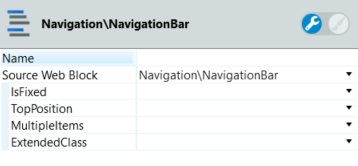
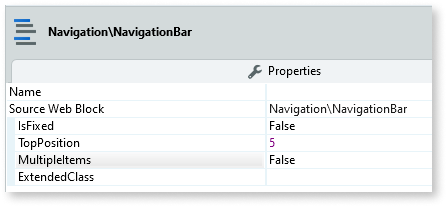
Updated: Tabs (Mob), Navigation Bar (Web), GAllery (Mob) and Master Detail (Mob) Patterns

diff --git a/src/develop/ui/patterns/web/navigation/navigationbar.md b/src/develop/ui/patterns/web/navigation/navigationbar.md
@@ -7,7 +7,7 @@ summary:
 
 You can use the Navigation Bar UI Pattern to organize the content and enable quick navigation through an application with vertically stacked links. These stacked links can be displayed with different hierarchy levels. 
 
-You user this pattern when the end user needs to navigate through an application's main sections while maintaining the ability to browse to another subsection quickly. 
+You use this pattern when the user needs to navigate through an application's main sections while maintaining the ability to browse to another subsection quickly. 
 
 ![](images/navigationbar-image-7.png)
 
@@ -19,17 +19,17 @@ You user this pattern when the end user needs to navigate through an application
 
       ![](images/navigationbar-image-6.png)
 
-1. From the Toolbox, drag the Navigation Bar widget onto your application's screen. 
+1. From the Toolbox, drag the Navigation Bar widget into the Main Content area of your application's screen.
 
-    ![](images/navigationbar-image-1.png?width=500)
+      ![](images/navigationbar-image-1.png)
 
-1. Drag the required number of Navigation Bar Item blocks into the Content placeholder.
+    By default, the Navigation Bar widget contains a Navigation Bar Item and a Navigation Bar SubItem widgets. You can add or delete as many of these widgets as required.
 
-1. Drag the required number of Navigation Bar Sub Item blocks into the Navigation Bar Item Content placeholder.
+1. Add the required content to the Navigation Bar Item and Navigation Bar SubItem placeholders. In this example we add some text by typing directly into each of the placeholders.
 
-    ![](images/navigationbar-image-2.png)
+    ![](images/navigationbar-image-8.png)
 
-1. On the **Properties** tab, set the required values.
+1. On the **Properties** tab, you can customize the Navigation Bar's look and feel by setting any of the optional properties.
 
     ![](images/navigationbar-image-3.png)
 
@@ -39,31 +39,28 @@ After following these steps and publishing the module, you can test the pattern 
 
 #### Navigation Bar
 
-| **Property** |  **Description** |  **Usage** | 
-|---|---|---|
-| IsFixed (Boolean): Optional |  If set to True, the navigation bar will allways be in the same position on the screen. If set to False, it scrolls with the page content. |  
-| TopPosition (Integer): Optional  |  Set the top position when the navigation bar is fixed. (Insert a number - the pixels unit is automatically added.) |  
-| MultipleItems (Boolean): Optional |  Allows multiple Navigation Bar Items to be opened having an accordian effect. | 
-| ExtendedClass (Text): Optional |  Add custom style classes to the block. | T|
+| **Property** |  **Description** |  
+|---|---|
+| IsFixed (Boolean): Optional |  If set to True, the navigation bar will always be in the same position on the screen. This is the defult value. If set to False, it scrolls with the page content. |  
+| TopPosition (Integer): Optional  |  Set the top position when the navigation bar is fixed. <p>Examples<ul><li>_Blank_ - This is the default.</li><li>_50_ - </li></ul></p>|  
+| MultipleItems (Boolean): Optional | If set to True, multiple Navigation Bar Items can be opened at the same time.This is the default value. If set to False, only one Navigation Bar Item can be opened at a time. | 
+| ExtendedClass (Text): Optional | Add custom style classes to the Navigation Bar UI Pattern. You define your [custom style classes](../../../../../develop/ui/look-feel/css.md) in your application using CSS. <p>Examples <ul><li>_Blank_ - No custom styles are added (default value)</li><li>_''myclass''_ - adds the myclass style to the Navigation Bar UI styles being applied.<li>_''myclass1'' ''myclass2''_ - adds the _myclass1_ and _myclass2_ styles to the Navigation Bar UI styles being applied.</li></ul></p> | 
 
 #### Navigation Bar Item
 
-| **Property** |  **Description** |  **Usage** | 
-|---|---|---|
-| IsActive  |  Set IsActive to true, to define as the selected element. |  Boolean | False | False |
-| IsOpen  |  If true, when rendering the NavigationBarItem is open. |  Boolean | False | False |
-| ExtendedClass  |  Add custom style classes to this Block. | Text | False | none |
+| **Property** |  **Description** | 
+|---|---|
+| IsActive (Boolean): Optional | If set to True, when the page is rendered, the Item is selected. If set to False, the Item is not selected. This is the default value. | 
+| IsOpen (Boolean): Optional  |  If set to True, when the page is rendered, the Navigation Bar Item is open. If set to False, the Navigation Bar Item is not open. This is the default.| 
+| ExtendedClass (Text): Optional | Add custom style classes to the Navigation Bar Item UI Pattern. You define your [custom style classes](../../../../../develop/ui/look-feel/css.md) in your application using CSS. <p>Examples <ul><li>_Blank_ - No custom styles are added (default value)</li><li>_''myclass''_ - adds the myclass style to the Navigation Bar Item UI styles being applied.<li>_''myclass1'' ''myclass2''_ - adds the _myclass1_ and _myclass2_ styles to the Navigation Bar Item UI styles being applied.</li></ul></p> | 
 
 #### Navigation Bar Sub Item
-| **Property** |  **Description** |  **Usage** | 
-|---|---|---|
-| IsActive  |  Set IsActive to true, to define as the selected element. |  Boolean | False | False |
+| **Property** |  **Description** |  
+|---|---|
+| IsActive (Boolean): Optional  |  If set to True, when the page is rendered, the Sub Item is selected. If set to False, the 
+Sub Item is not selected. | 
 
 ## Device compatibility
 
 In Internet Explorer, `position: fixed` is used instead of `position: sticky` as the latter is not supported.
-
-## See also
-
-* OutSystems UI Live Style Guide: [Navigation Bar](https://outsystemsui.outsystems.com/WebStyleGuidePreview/NavigationBar.aspx)
 

diff --git a/src/develop/ui/patterns/mobile/tabs.md b/src/develop/ui/patterns/mobile/tabs.md
@@ -15,20 +15,21 @@ You can use the Tabs UI Pattern to display large sets of information, which can 
 
     The Tabs widget is displayed.
     
-    ![](images/tabs-image4.png)
+    ![](images/tabs-image-4.png)
     
-3. From the Toolbox, drag the Tabs block onto your application's screen. 
+1. From the Toolbox, drag the Tabs widget into the Main Content area of your application's screen.
 
-    ![](images/Tabs_pattern.png)
+    ![](images/tabs-image-3.png)
+    
+    By default, the Tabs widget contains 3 Header Items (tab titles) and 3 Content Items (tab content). You can add or delete as many as required.
 
-4. Add your content to the Content placeholders.
+1. Add the relevant content to the Header Item and Content Item placeholders. In this example we add some text by typing directly into each of the placeholders.
+    
+      ![](images/tabs-image-5.png)
 
-     * The **Tab 1** - **Tab 5** placeholders represent the header tabs.
+1. On the **Properties** tab, you can customize the Tabs look and feel by setting any of the optional properties, for example, which tab is displayed as the active tab when the page is rendered and whether the tabs are displayed vertically or horizontally.  
 
-     * The **Tab Content 1** - **Tab Content 5** placeholders represent the content of each tab.   
-
-
-5. On the **Properties** tab, set the **StartingTab** property to display the tabs when rendering.
+    ![](images/tabs-image-6.png)
 
 After following these steps and publishing the module, you can test the pattern in your app.
 
@@ -63,14 +64,17 @@ All Silk patterns hide _divs_ with no content. If you only need 2 or 3 tabs, and
 
 ## Properties
 
-**Property** |  **Description** |  **Default Value**  
----|---|---  
-![](images/input.png) StartingTab  |  Index of the currently active tab.  |  0  
-  
+|**Property** |  **Description** | 
+|---|---|
+|StartingTab (Integer): Optional  | Set the index of the currently active tab. The index begins at 0.<p>Examples<ul><li>_Blank_ - The 1st tab is the active tab. This is the default.</li><li>_1_ - The 2nd tab is the active tab.</li></ul></p>|    
+|IsJustified (Boolean): Optional  | If True, the Tabs are evenly distributed in the space available. If set to False, the Tabs are left aligned. This is the default value.|  
+|IsVertical (Boolean): Optional  | If True, the Tabs are displayed vertically. If set to False, the Tabs are displayed horizontally. This is the default value.|  
+|IsRight (Boolean): Optional  | If True, the Tabs are displayed to the right of the Tab content. If set to False, the Tabs are displayed to the left of the Tab content. This is the default value. **Note**: This setting is only applicable if the IsVertical property is set to True.|  
+| ExtendedClass (Text): Optional | Add custom style classes to the Tabs UI Pattern. You define your [custom style classes](../../../../../develop/ui/look-feel/css.md) in your application using CSS. <p>Examples <ul><li>_Blank_ - No custom styles are Tabs UI styles being applied.<li>_''myclass1'' ''myclass2''_ - adds the _myclass1_ and _myclass2_ styles to the Tabs UI styles being applied.</li></ul></p> | 
   
 ## Device and pattern compatibility
 
-* Incompatibility with RTL on Android devices with 4.4.2 OS version.
+* Incompatible with RTL on Android devices with 4.4.2 OS version.
 
 * Avoid using the Tabs Pattern inside patterns with swipe events, such as the Stacked Cards or Carousel Patterns.
 
@@ -82,7 +86,3 @@ The following samples use the Tabs pattern:
 
 ![](images/Tabs-sample-2.PNG)
 
-## See also
-
-* OutSystems UI Live Style Guide: [Tabs](https://outsystemsui.outsystems.com/WebStyleGuidePreview/Tabs.aspx)
-* OutSystems UI Pattern Page: [Tabs](https://outsystemsui.outsystems.com/OutSystemsUIWebsite/PatternDetail?PatternId=73)

diff --git a/src/develop/ui/patterns/mobile/masterdetail.md b/src/develop/ui/patterns/mobile/masterdetail.md
@@ -78,9 +78,9 @@ You can have your phone in landscape to work the same way as a tablet:
 
 ## Properties
 
-**Property** |  **Description** |  **Default Value**  
----|---|---  
-![](images/input.png) ItemList  |  These are the items for the list on the left side of the MasterDetail.  |  N/A  
+**Property** |  **Description** |   
+|---|---|
+|ItemList  |  These are the items for the list on the left side of the MasterDetail.  |  N/A  
   
  
   
@@ -93,8 +93,3 @@ This pattern should be used alone inside the screen content because it will adap
 You can use the Master Detail pattern as a sample:
 
 ![](images/MasterDetail-Sample-1.PNG)
-
-
-## See also
-
-* OutSystems UI Pattern Page: [Master Detail](https://outsystemsui.outsystems.com/OutSystemsUIWebsite/PatternDetail?PatternId=51)
